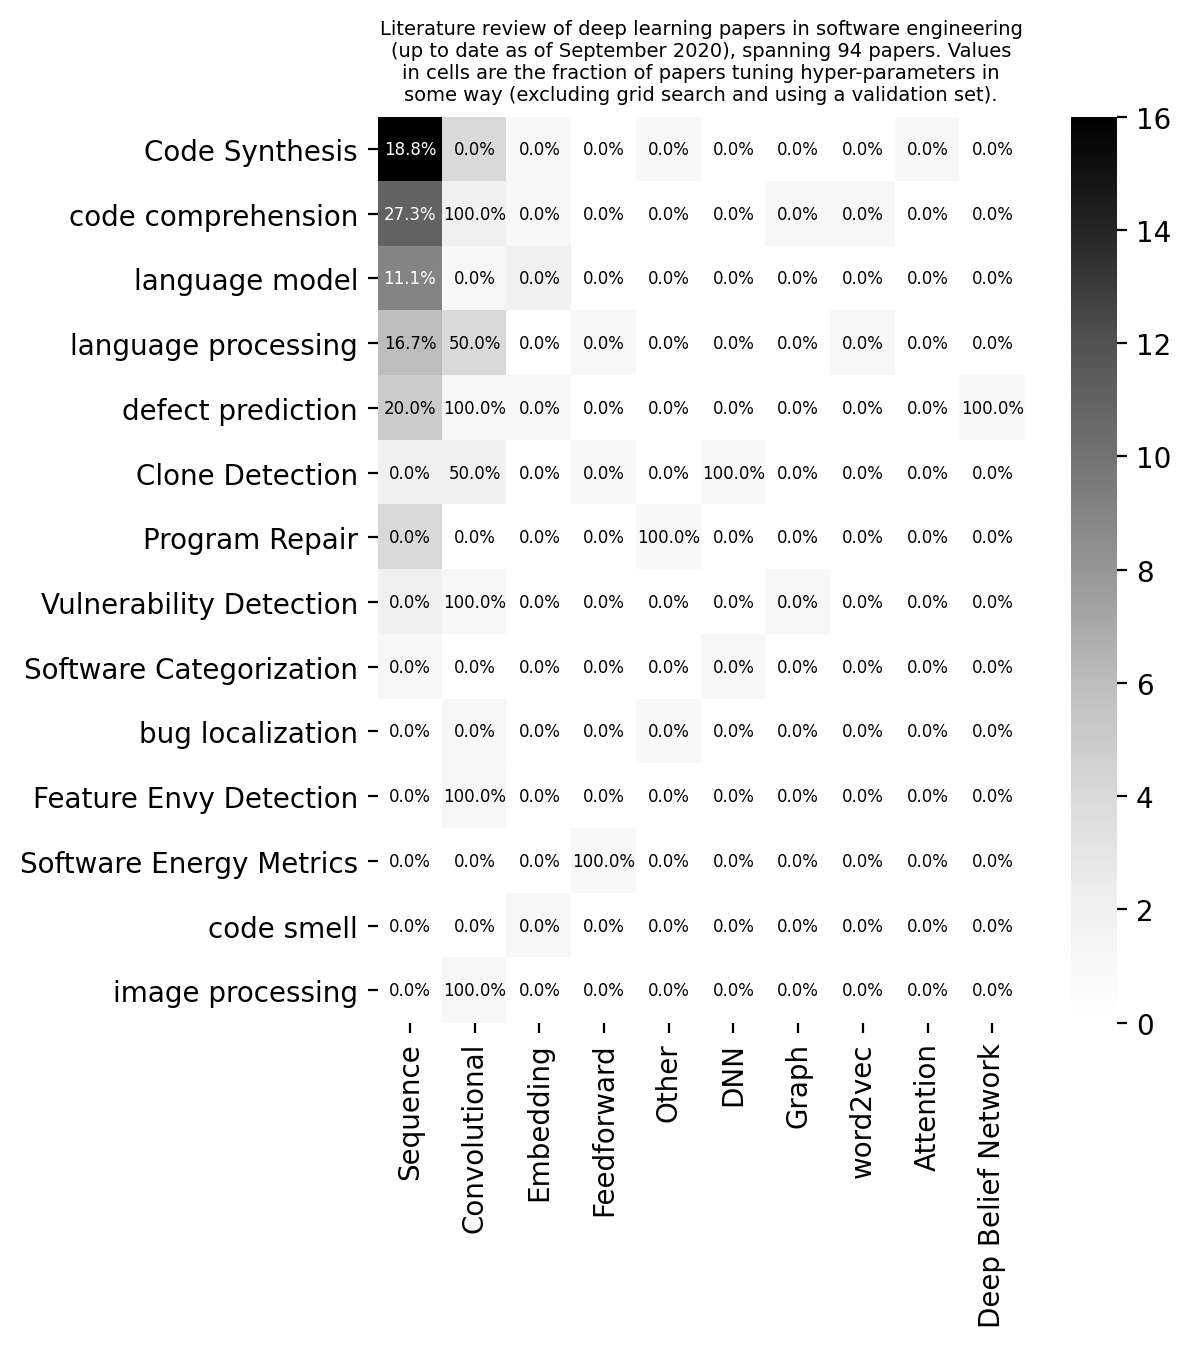
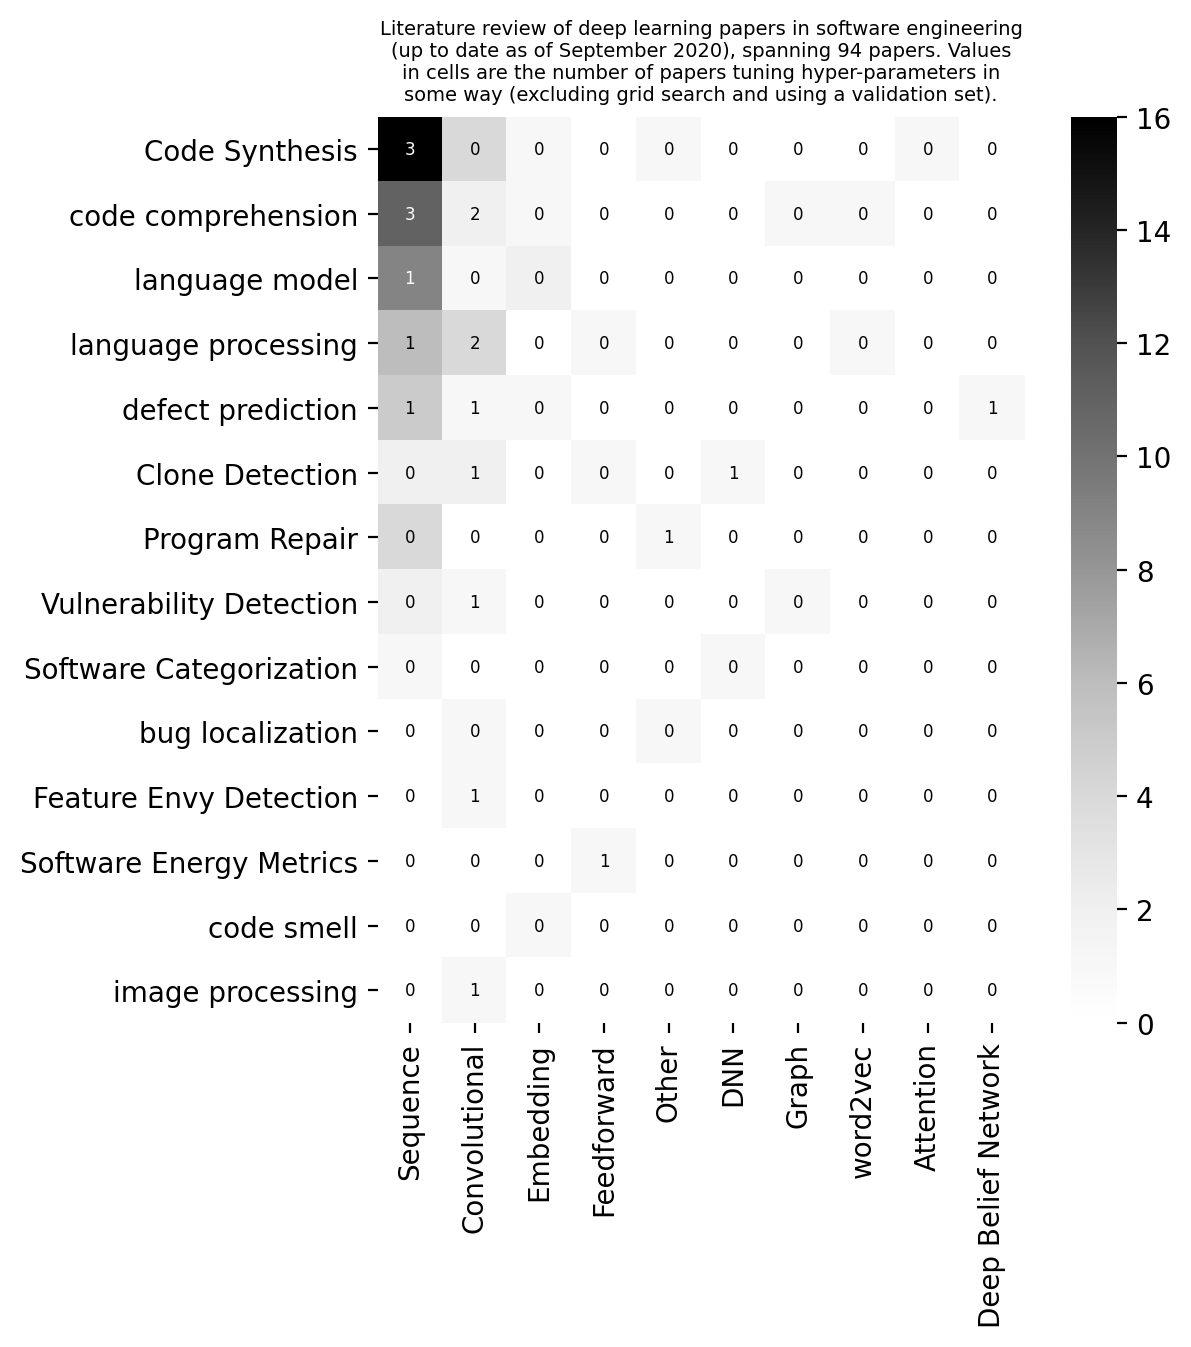
Updated report

diff --git a/2020/Sep4 - Sep 11/summary.md b/2020/Sep4 - Sep 11/summary.md
@@ -4,15 +4,15 @@
 
 ### Heatmap with papers comparing to non-DL
 
-![nondl](https://raw.githubusercontent.com/raise-yedida/progress-reports/c511b208172e02151c975b5619935de2d0afefd1/2020/Sep4%20-%20Sep%2011/heatmap.jpg)
+![nondl](https://raw.githubusercontent.com/raise-yedida/progress-reports/master/2020/Sep4%20-%20Sep%2011/heatmap-nondl.png)
 
 ### Heatmap with papers doing hyperparameter tuning
 
-![hyp](https://raw.githubusercontent.com/raise-yedida/progress-reports/c511b208172e02151c975b5619935de2d0afefd1/2020/Sep4%20-%20Sep%2011/heatmap-hyp.jpg)
+![hyp](https://raw.githubusercontent.com/raise-yedida/progress-reports/master/2020/Sep4%20-%20Sep%2011/heatmap-hyp.png)
 
 ### Heatmap of papers doing non-trivial hyperparameter tuning (i.e., not using grid search or dev sets)
 
-![nontrivial](https://raw.githubusercontent.com/raise-yedida/progress-reports/c511b208172e02151c975b5619935de2d0afefd1/2020/Sep4%20-%20Sep%2011/heatmap-hyp-nontrivial.jpg) 
+![nontrivial](https://raw.githubusercontent.com/raise-yedida/progress-reports/master/2020/Sep4%20-%20Sep%2011/heatmap-hyp-nontrivial.png) 
 
 
 
